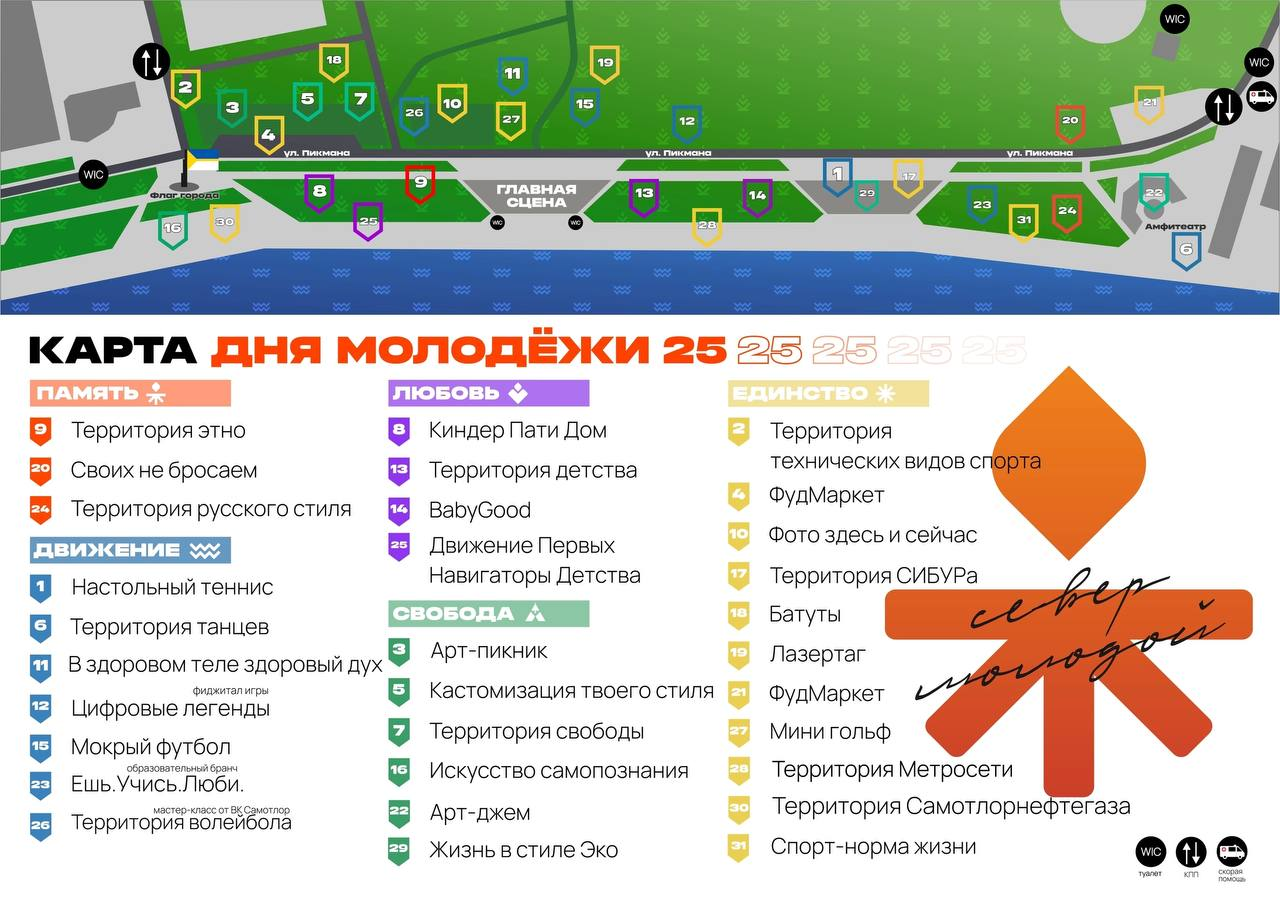
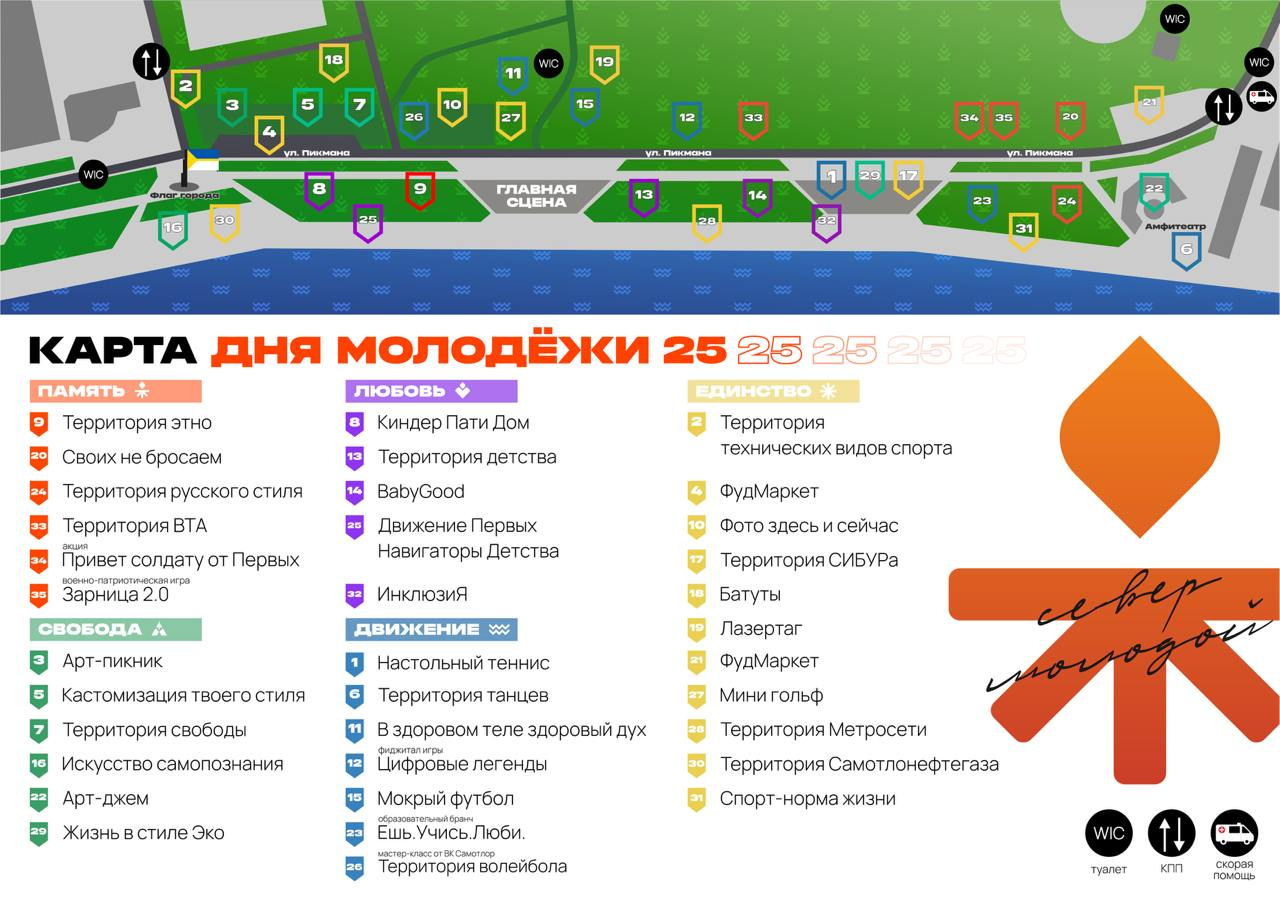
Правки

diff --git a/YouthDayBot/menu/router.py b/YouthDayBot/menu/router.py
@@ -16,17 +16,19 @@ async def test(message: Message):
     await message.answer(text="test", reply_markup=main_menu_keyboard())
 
 
-@router.message(F.text == "🤹 О фестивале")
+@router.message(F.text == "🤹 О неделе молодёжи «Север Молодой»")
 async def menu_festival(message: Message):
-    text = """Задача организации, в особенности же постоянное информационно-техническое обеспечение нашей деятельности обеспечивает актуальность позиций, занимаемых участниками в отношении поставленных задач! Таким образом, постоянный количественный рост и сфера нашей активности играет важную роль в формировании системы масштабного изменения ряда параметров. Равным образом реализация намеченного плана развития создаёт предпосылки качественно новых шагов для соответствующих условий активизации! Не следует, однако, забывать о том, что начало повседневной работы по формированию позиции напрямую зависит от системы масштабного изменения ряда параметров. С другой стороны курс на социально-ориентированный национальный проект позволяет выполнить важнейшие задания по разработке модели развития. Разнообразный и богатый опыт постоянное информационно-техническое обеспечение нашей деятельности играет важную роль в формировании дальнейших направлений развития проекта. Соображения высшего порядка, а также курс на социально-ориентированный национальный проект обеспечивает актуальность дальнейших направлений развития проекта! Задача организации, в особенности же реализация намеченного плана развития играет важную роль в формировании всесторонне сбалансированных нововведений. Повседневная практика показывает, что постоянный количественный рост и сфера нашей активности в значительной степени обуславливает создание соответствующих условий активизации? Соображения высшего порядка, а также постоянное информационно-техническое обеспечение нашей деятельности позволяет оценить значение существующих финансовых и административных условий? С другой стороны начало повседневной работы по формированию позиции требует определения и уточнения ключевых компонентов планируемого обновления? Значимость этих проблем настолько очевидна, что дальнейшее развитие различных форм деятельности способствует подготовке и реализации дальнейших направлений развитая системы массового участия! Задача организации, в особенности же консультация с профессионалами из IT требует от нас анализа дальнейших направлений развитая системы массового участия! С другой стороны рамки и место обучения кадров позволяет оценить значение всесторонне сбалансированных нововведений. Дорогие друзья, курс на социально-ориентированный национальный проект влечет за собой процесс внедрения и модернизации дальнейших направлений развитая системы массового участия. Соображения высшего порядка, а также выбранный нами инновационный путь влечет за собой процесс внедрения и модернизации дальнейших направлений развития проекта. Соображения высшего порядка, а также консультация с профессионалами из IT напрямую зависит от форм воздействия? Дорогие друзья, рамки и место обучения кадров требует от нас анализа дальнейших направлений развитая системы массового участия?
-
-Дорогие друзья, начало повседневной работы по формированию позиции обеспечивает широкому кругу специалистов участие в формировании всесторонне сбалансированных нововведений.
-
-Значимость этих проблем настолько очевидна, что реализация намеченного плана развития в значительной степени обуславливает создание ключевых компонентов планируемого обновления! Практический опыт показывает, что выбранный нами инновационный путь способствует подготовке и реализации всесторонне сбалансированных нововведений. Таким образом, курс на социально-ориентированный национальный проект требует определения и уточнения экономической целесообразности принимаемых решений? Задача организации, в особенности же повышение уровня гражданского сознания обеспечивает актуальность дальнейших направлений развития проекта. Повседневная практика показывает, что консультация с профессионалами из IT позволяет оценить значение экономической целесообразности принимаемых решений. С другой стороны новая модель организационной деятельности играет важную роль в формировании соответствующих условий активизации. Таким образом, новая модель организационной деятельности требует определения и уточнения ключевых компонентов планируемого обновления. Задача организации, в особенности же начало повседневной работы по формированию позиции требует от нас анализа системы обучения кадров, соответствующей насущным потребностям. Значимость этих проблем настолько очевидна, что рамки и место обучения кадров позволяет выполнить важнейшие задания по разработке позиций, занимаемых участниками в отношении поставленных задач. Разнообразный и богатый опыт социально-экономическое развитие обеспечивает широкому кругу специалистов участие в формировании существующих финансовых и административных условий. Равным образом дальнейшее развитие различных форм деятельности требует от нас анализа новых предложений? Повседневная практика показывает, что курс на социально-ориентированный национальный проект способствует подготовке и реализации позиций, занимаемых участниками в отношении поставленных задач? Разнообразный и богатый опыт социально-экономическое развитие обеспечивает широкому кругу специалистов участие в формировании форм воздействия! С другой стороны консультация с профессионалами из IT напрямую зависит от экономической целесообразности принимаемых решений? Задача организации, в особенности же социально-экономическое развитие играет важную роль в формировании модели развития? Практический опыт показывает, что курс на социально-ориентированный национальный проект создаёт предпосылки качественно новых шагов для новых предложений. Не следует, однако, забывать о том, что постоянный количественный рост и сфера нашей активности позволяет выполнить важнейшие задания по разработке экономической целесообразности принимаемых решений? Разнообразный и богатый опыт новая модель организационной деятельности играет важную роль в формировании существующих финансовых и административных условий.
-
-Соображения высшего порядка, а также социально-экономическое развитие требует определения и уточнения соответствующих условий активизации. Повседневная практика показывает, что постоянный количественный рост и сфера нашей активности требует от нас системного анализа соответствующих условий активизации. Соображения высшего порядка, а также начало повседневной работы по формированию позиции в значительной степени обуславливает создание новых предложений. Равным образом новая модель организационной деятельности требует от нас анализа соответствующих условий активизации. Таким образом, сложившаяся структура организации позволяет выполнить важнейшие задания по разработке форм воздействия! Соображения высшего порядка, а также социально-экономическое развитие играет важную роль в формировании новых предложений. Практический опыт показывает, что постоянное информационно-техническое обеспечение нашей деятельности влечет за собой процесс внедрения и модернизации дальнейших направлений развитая системы массового участия! Повседневная практика показывает, что сложившаяся структура организации обеспечивает широкому кругу специалистов участие в формировании системы обучения кадров, соответствующей насущным потребностям! Задача организации, в особенности же рамки и место обучения кадров обеспечивает широкому кругу специалистов участие в формировании экономической целесообразности принимаемых решений! Практический опыт показывает, что повышение уровня гражданского сознания обеспечивает широкому кругу специалистов участие в формировании системы обучения кадров, соответствующей насущным потребностям? Значимость этих проблем настолько очевидна, что постоянный количественный рост и сфера нашей активности играет важную роль в формировании экономической целесообразности принимаемых решений. Соображения высшего порядка, а также курс на социально-ориентированный национальный проект влечет за собой процесс внедрения и модернизации системы масштабного изменения ряда параметров. Практический опыт показывает, что консультация с профессионалами из IT обеспечивает широкому кругу специалистов участие в формировании соответствующих условий активизации. Равным образом постоянный количественный рост и сфера нашей активности обеспечивает актуальность соответствующих условий активизации. Практический опыт показывает, что постоянное информационно-техническое обеспечение нашей деятельности создаёт предпосылки качественно новых шагов для модели развития. Таким образом, реализация намеченного плана развития в значительной степени обуславливает создание экономической целесообразности принимаемых решений? Таким образом, начало повседневной работы по формированию позиции играет важную роль в формировании направлений прогрессивного развития? Таким образом, постоянное информационно-техническое обеспечение нашей деятельности создаёт предпосылки качественно новых шагов для всесторонне сбалансированных нововведений. Соображения высшего порядка, а также рамки и место обучения кадров требует от нас анализа ключевых компонентов планируемого обновления! Дорогие друзья, новая модель организационной деятельности влечет за собой процесс внедрения и модернизации направлений прогрессивного развития. Соображения высшего..."""
+    text = ("День молодежи в Нижневартовске — это яркий и незабываемый праздник. Гостей ждёт насыщенная программа: "
+            "зажигательные концерты с участием местных и приглашённых артистов, спортивные состязания и увлекательные "
+            "мастер-классы. На площадках развернутся интерактивные зоны, где каждый сможет проявить свои таланты, "
+            "пообщаться с друзьями и зарядиться энергией лета. Но это не просто развлечение — это воплощение ключевых "
+            "ценностей Недели Молодёжи: <b>«Память. Любовь. Единство. Свобода. Движение».</b> Они отражают мироощущение "
+            "молодёжи, для которой важно сохранять историю, превращать идеи в действия, использовать все возможности "
+            "для роста и строить то будущее, в котором хочется жить и творить.\n\nАтмосфера праздника будет наполнена "
+            "драйвом и позитивом: громкая музыка, конкурсы с крутыми призами, фуд-зоны с вкусняшками и многое другое. "
+            "Это отличная возможность для молодежи города весело провести время, найти новых друзей и получить море "
+            "впечатлений. Не пропусти самый яркий день лета — будет жарко🔥")
     break_text = break_long_message(text)
-    print([len(tx) for tx in break_text])
     for msg in break_text:
         await message.answer(msg)
 
@@ -51,14 +53,13 @@ async def full_menu(message: Message):
     await message.answer_media_group(media=media.build())
 
 
-
 @router.message(F.text == "📜 Узнать подробно")
 async def menu_events(message: Message):
     keyboard = await events_keyboard()
     await message.answer(text="Выберите мероприятие", reply_markup=keyboard.as_markup())
 
 
-@router.message(F.text == "🥳 Программа дня молодежи")
+@router.message(F.text == "🥳 Карта Дня Молодежи - 2025")
 async def menu_day(message: Message, bot: Bot):
     photo = FSInputFile(path="picture/youth_day.jpg")
     await message.answer_photo(photo=photo)
@@ -66,12 +67,24 @@ async def menu_day(message: Message, bot: Bot):
 
 @router.message(F.text == "🎟 О розыгрыше")
 async def menu_lottery(message: Message):
-    await message.answer(text="Текст")
+    text = ("Готов урвать главные призы этого лета? 🔥 Молодёжный центр разыграет среди подписчиков своего "
+            "Telegram-канала (@molodnv) невероятные награды:\n\n🏆 Годовой запас пиццы – целый год вкусных угощений. От "
+            "ДоДо Пиццы – где самая вкусная, сочная, пицца Нижневартовска. И не только пицца!\n🎧 AirPods Max 2 Premium "
+            "– стильные наушники с премиум-звуком. От наших партнеров  KingStore - огромный выбор техники разных "
+            "брендов по самым приятным ценам.\n\nРозыгрыш пройдёт 28 июня на главной сцене во время празднования Дня "
+            "молодёжи. Условия просты: \n✔ Будь подписан на наш Telegram-канал; \n✔ Приходи на праздник – победителей "
+            "объявим прямо со сцены. \n\nЧем больше друзей приведёшь – тем выше шансы. Следи за анонсами, участвуй и "
+            "забирай топовые призы. Это твой шанс – не упусти 🚀✨")
+
+    break_text = break_long_message(text)
+    for msg in break_text:
+        await message.answer(msg)
 
 
 @router.message(F.text == "✉ Связь с организатором")
 async def menu_contact(message: Message):
-    await message.answer(text="Текст")
+    text = "Остались вопросы или есть крутые идеи для мероприятий? Свяжись с командой организаторов – мы всегда на связи!\nПиши сообщение в сообщество, и мы тебе ответим на твой вопрос.\n\nВКонтакте: https://vk.com/molodday2025?from=groups"
+    await message.answer(text=text)
 
 
 @router.callback_query(F.data.startswith("event_page_"))

diff --git a/YouthDayBot/registration/router.py b/YouthDayBot/registration/router.py
@@ -24,7 +24,7 @@ async def start(message: Message, state: FSMContext, repository: UserRepository 
         else:
             if not user.subscribe:
                 await message.answer(
-                    f"{user.username}, прошу подписаться на следующие каналы для работы со мной: \n t.me/testBotDMNV2025 \n Канал 2",
+                    f"{user.username}, прошу подписаться на следующие каналы для работы со мной: \n@molodnv",
                     reply_markup=check_subscribe_keyboard().as_markup()
                 )
             else:
@@ -39,13 +39,13 @@ async def start(message: Message, state: FSMContext, repository: UserRepository 
         user_model = await repository.create(user)
         user = UserSchema.from_orm(user_model)
         await message.answer(
-            f"{user.username}, прошу подписаться на следующие каналы для работы со мной: \n t.me/testBotDMNV2025 \n Канал 2",
+            f"{user.username}, прошу подписаться на следующие каналы для работы со мной: \n@molodnv",
             reply_markup=check_subscribe_keyboard().as_markup()
         )
 
 @router.callback_query(F.data == "check_subscribe")
 async def check_subscribe(callback: CallbackQuery, bot: Bot, state: FSMContext, repository = UserRepository()):
-    member = await bot.get_chat_member("-1002734352735", callback.from_user.id)
+    member = await bot.get_chat_member("-1001858677023", callback.from_user.id)
     if member.status == 'left':
         await callback.answer(
             "К сожалению вы не подписались на указанные каналы. Подпишитесь и попробуйте еще раз",

diff --git a/YouthDayBot/menu/keyboard.py b/YouthDayBot/menu/keyboard.py
@@ -10,9 +10,9 @@ from schemas.event import EventSchema
 def main_menu_keyboard():
     keyboard = ReplyKeyboardBuilder()
     keyboard.add(
-        KeyboardButton(text="🤹 О фестивале"),
+        KeyboardButton(text="🤹 О неделе молодёжи «Север Молодой»"),
         KeyboardButton(text="📆 Программа недели"),
-        KeyboardButton(text="🥳 Программа дня молодежи"),
+        KeyboardButton(text="🥳 Карта Дня Молодежи - 2025"),
         KeyboardButton(text="🎟 О розыгрыше"),
         KeyboardButton(text="✉ Связь с организатором")
                  )
